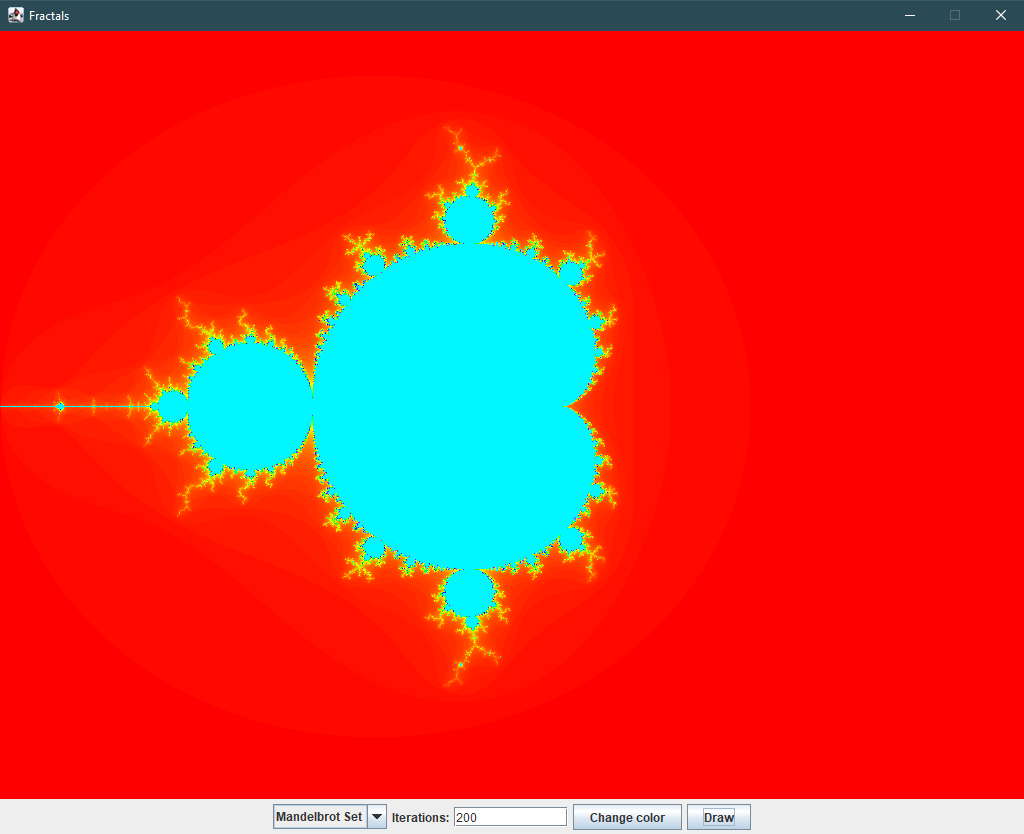
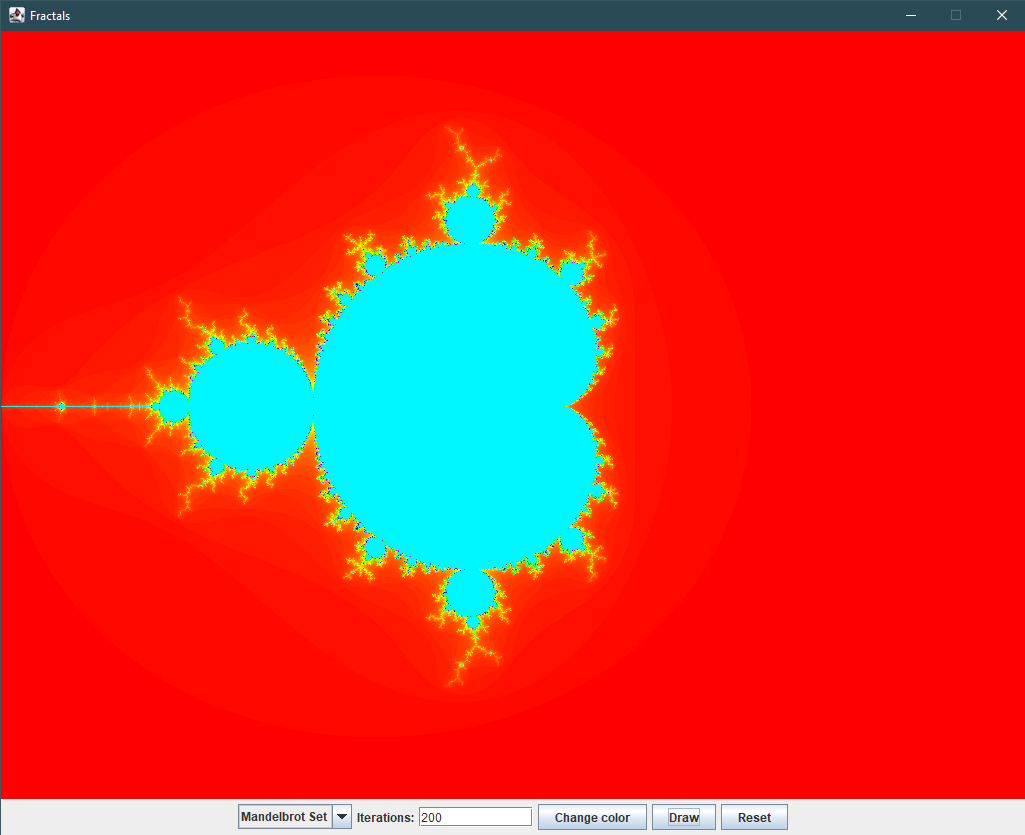
Add redraw button

diff --git a/src/Main.java b/src/Main.java
@@ -26,9 +26,11 @@ public class Main extends JComponent {
     JLabel label2;
     JButton colorButton;
     JButton drawButton;
+    JButton resetButton;
     ActionListener changedFractalType;
     ActionListener changedColor;
     ActionListener buttonRenderFractal;
+    ActionListener reset;
     MouseAdapter mouseListener;
     public int  fractal_selected;
 
@@ -56,6 +58,7 @@ public class Main extends JComponent {
         colorButton = new JButton("Change color");
         iterationsLabel = new JLabel("Iterations:");
         drawButton = new JButton("Draw");
+        resetButton = new JButton("Reset");
         field1 = new JTextField(10);
         field2 = new JTextField(10);
         label1 = new JLabel("cReal:");
@@ -81,6 +84,13 @@ public class Main extends JComponent {
                 JOptionPane.showMessageDialog(window, "Enter iterations, cReal, cImag","Error",JOptionPane.ERROR_MESSAGE);
             }
         };
+        reset = e->{
+            zoomFactor = DEFAULT_ZOOM;
+            topLeftX   = DEFAULT_TOP_LEFT_X;
+            topLeftY   = DEFAULT_TOP_LEFT_Y;
+            drawFractal();
+            canvas.repaint();
+        };
         changedFractalType = e -> {
             panel.removeAll();
             panel.add(chooseFractalComboBox);
@@ -94,6 +104,7 @@ public class Main extends JComponent {
                 panel.add(field2);
             }
             panel.add(drawButton);
+            panel.add(resetButton);
             window.getContentPane().add(panel, BorderLayout.SOUTH);
             window.getContentPane().validate();
         };
@@ -140,6 +151,7 @@ public class Main extends JComponent {
 
         colorButton.addActionListener(changedColor);
         drawButton.addActionListener(buttonRenderFractal);
+        resetButton.addActionListener(reset);
         chooseFractalComboBox.addActionListener(changedFractalType);
         canvas.setPreferredSize(new Dimension(WIDTH, HEIGHT));
         canvas.addMouseListener(mouseListener);
@@ -148,6 +160,7 @@ public class Main extends JComponent {
         panel.add(iterationsField);
         panel.add(colorButton);
         panel.add(drawButton);
+        panel.add(resetButton);
         window.getContentPane().add(canvas);
         window.getContentPane().add(panel, BorderLayout.SOUTH);
         window.pack();
